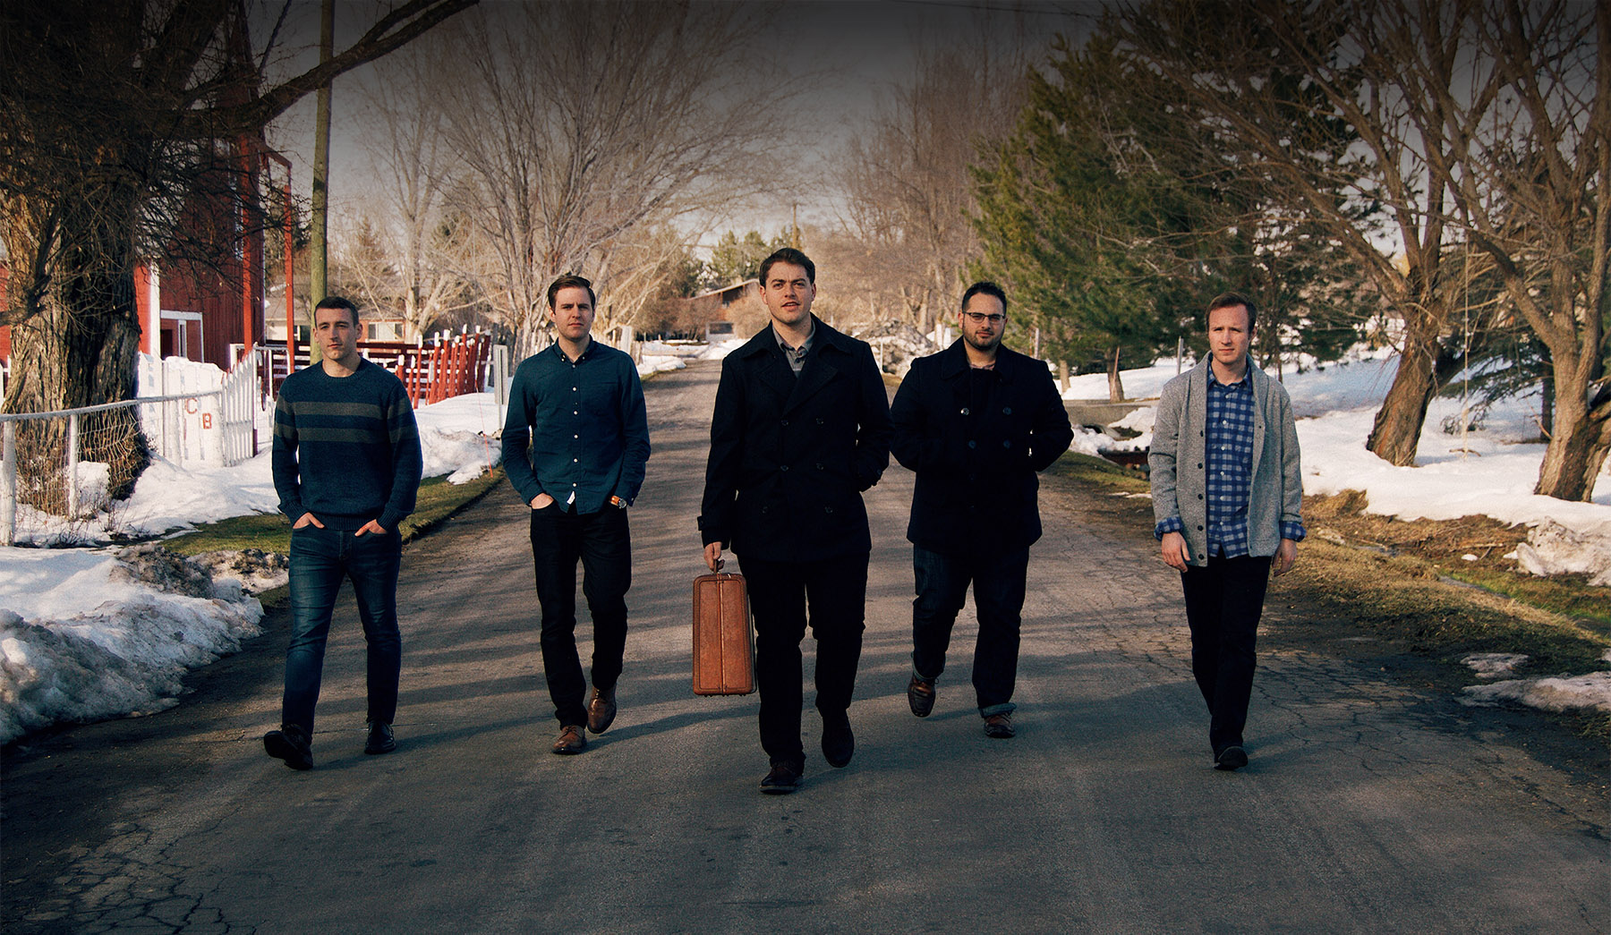
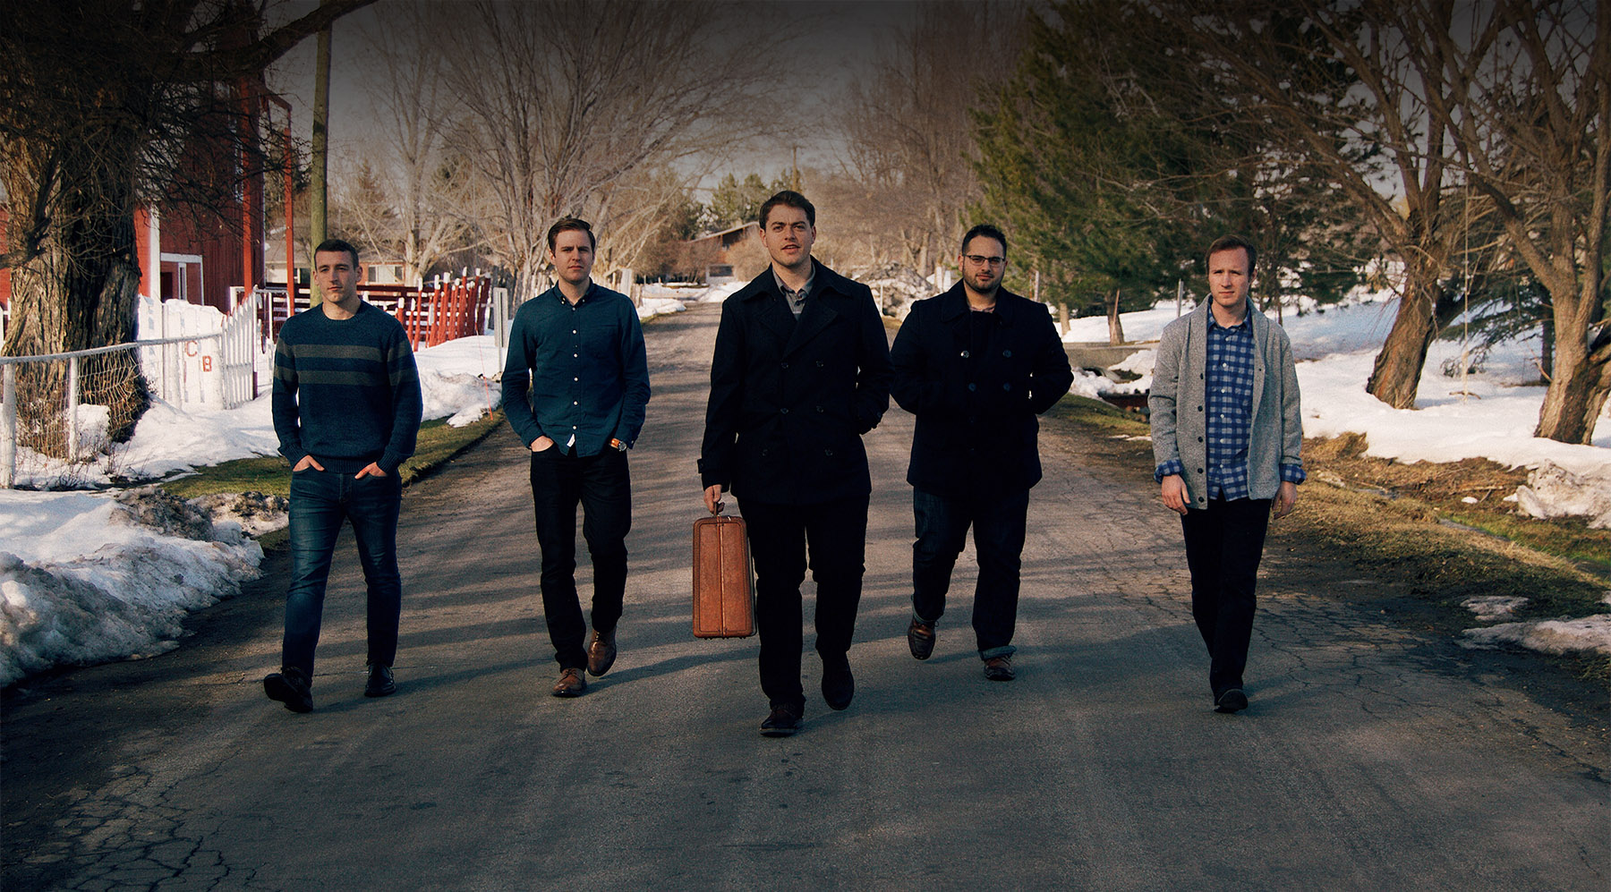
new header

diff --git a/css/agency.min.css b/css/agency.min.css
@@ -2,4 +2,4 @@
  * Start Bootstrap - Agency v3.3.7+1 (http://startbootstrap.com/template-overviews/agency)
  * Copyright 2013-2017 Start Bootstrap
  * Licensed under MIT (https://github.com/BlackrockDigital/startbootstrap/blob/gh-pages/LICENSE)
- */body{overflow-x:hidden;font-family:"Roboto Slab","Helvetica Neue",Helvetica,Arial,sans-serif;font-size:14px}.text-muted{color:#777}.text-primary{color:#be373d}p{font-size:1.15em;margin-bottom:1.5em;line-height:1.75}p.large{font-size:1.25em}a,a.active,a:active,a:focus,a:hover{outline:0}a{color:#be373d}a.active,a:active,a:focus,a:hover{color:#962c30}h1,h2,h3,h4,h5,h6{font-family:Montserrat,"Helvetica Neue",Helvetica,Arial,sans-serif;text-transform:uppercase;font-weight:700}.img-centered{margin:0 auto}.bg-light-gray{background-color:#eee}.bg-darkest-gray{background-color:#222}.btn-primary{color:#fff;background-color:#be373d;border-color:#be373d;font-family:Montserrat,"Helvetica Neue",Helvetica,Arial,sans-serif;text-transform:uppercase;font-weight:700}.btn-primary.active,.btn-primary:active,.btn-primary:focus,.btn-primary:hover,.open .dropdown-toggle.btn-primary{color:#fff;background-color:#962c30;border-color:#8f292e}.btn-primary.active,.btn-primary:active,.open .dropdown-toggle.btn-primary{background-image:none}.btn-primary.disabled,.btn-primary.disabled.active,.btn-primary.disabled:active,.btn-primary.disabled:focus,.btn-primary.disabled:hover,.btn-primary[disabled],.btn-primary[disabled].active,.btn-primary[disabled]:active,.btn-primary[disabled]:focus,.btn-primary[disabled]:hover,fieldset[disabled] .btn-primary,fieldset[disabled] .btn-primary.active,fieldset[disabled] .btn-primary:active,fieldset[disabled] .btn-primary:focus,fieldset[disabled] .btn-primary:hover{background-color:#be373d;border-color:#be373d}.btn-primary .badge{color:#be373d;background-color:#fff}.btn-xl{color:#fff;background-color:#be373d;border-color:#be373d;font-family:Montserrat,"Helvetica Neue",Helvetica,Arial,sans-serif;text-transform:uppercase;font-weight:700;border-radius:3px;font-size:18px;padding:20px 40px}.btn-xl.active,.btn-xl:active,.btn-xl:focus,.btn-xl:hover,.open .dropdown-toggle.btn-xl{color:#fff;background-color:#962c30;border-color:#8f292e}.btn-xl.active,.btn-xl:active,.open .dropdown-toggle.btn-xl{background-image:none}.btn-xl.disabled,.btn-xl.disabled.active,.btn-xl.disabled:active,.btn-xl.disabled:focus,.btn-xl.disabled:hover,.btn-xl[disabled],.btn-xl[disabled].active,.btn-xl[disabled]:active,.btn-xl[disabled]:focus,.btn-xl[disabled]:hover,fieldset[disabled] .btn-xl,fieldset[disabled] .btn-xl.active,fieldset[disabled] .btn-xl:active,fieldset[disabled] .btn-xl:focus,fieldset[disabled] .btn-xl:hover{background-color:#be373d;border-color:#be373d}.btn-xl .badge{color:#be373d;background-color:#fff}.navbar-custom{background-color:#222;border-color:transparent}.navbar-custom .navbar-brand{margin:0;padding:0;display:block}.navbar-custom .navbar-brand img{width:3em;margin-top:-.3em}.navbar-custom .navbar-collapse{border-color:rgba(255,255,255,.02)}.navbar-custom .navbar-toggle{background-color:#be373d;border-color:#be373d;font-family:Montserrat,"Helvetica Neue",Helvetica,Arial,sans-serif;text-transform:uppercase;color:#fff;font-size:12px}.navbar-custom .navbar-toggle:focus,.navbar-custom .navbar-toggle:hover{background-color:#be373d}.navbar-custom .nav li a{font-family:Montserrat,"Helvetica Neue",Helvetica,Arial,sans-serif;text-transform:uppercase;font-weight:400;font-size:.9em;letter-spacing:1px;color:#fff}.navbar-custom .nav li a:focus,.navbar-custom .nav li a:hover{color:#be373d;outline:0}.navbar-custom .navbar-nav>.active>a{border-radius:0;color:#fff;background-color:#be373d}.navbar-custom .navbar-nav>.active>a:focus,.navbar-custom .navbar-nav>.active>a:hover{color:#fff;background-color:#962c30}@media (min-width:768px){.navbar-custom{background-color:transparent;padding:25px 0;-webkit-transition:padding .3s;-moz-transition:padding .3s;transition:padding .3s;border:none}.navbar-custom .navbar-brand{font-size:2em;-webkit-transition:all .3s;-moz-transition:all .3s;transition:all .3s}.navbar-custom .navbar-nav>.active>a{border-radius:3px}}@media (min-width:768px){.navbar-custom.affix{background-color:#222;padding:10px 0}.navbar-custom.affix .navbar-brand{font-size:1.5em}}header{background-image:url(../img/header-bg.jpg);background-repeat:no-repeat;background-attachment:scroll;background-position:center center;-webkit-background-size:cover;-moz-background-size:cover;background-size:cover;-o-background-size:cover;text-align:center;color:#fff}header .header-logo-overlay img{width:70%;margin:3em 0 5em}@media (min-width:768px){header .intro-text{padding-top:300px;padding-bottom:200px}header .intro-text .intro-lead-in{font-family:"Droid Serif","Helvetica Neue",Helvetica,Arial,sans-serif;font-style:italic;font-size:40px;line-height:40px;margin-bottom:25px}header .intro-text .intro-heading{font-family:Montserrat,"Helvetica Neue",Helvetica,Arial,sans-serif;text-transform:uppercase;font-weight:700;font-size:75px;line-height:75px;margin-bottom:50px}}section{padding:100px 0}section h2.section-heading{font-size:40px;margin-top:0;margin-bottom:15px}section h3.section-subheading{font-size:1.15em;line-height:1.75;font-family:"Droid Serif","Helvetica Neue",Helvetica,Arial,sans-serif;text-transform:none;font-style:italic;font-weight:400;margin-bottom:4.5em}@media (min-width:768px){section{padding:150px 0}}.embedded-iframe{width:100%}.service-heading{margin:15px 0;text-transform:none}#portfolio .portfolio-item{margin:0 0 15px;right:0}#portfolio .portfolio-item .portfolio-link{display:block;position:relative;max-width:400px;margin:0 auto}#portfolio .portfolio-item .portfolio-link .portfolio-hover{background:rgba(190,55,61,.9);position:absolute;width:100%;height:100%;opacity:0;transition:all ease .5s;-webkit-transition:all ease .5s;-moz-transition:all ease .5s}#portfolio .portfolio-item .portfolio-link .portfolio-hover:hover{opacity:1}#portfolio .portfolio-item .portfolio-link .portfolio-hover .portfolio-hover-content{position:absolute;width:100%;height:20px;font-size:20px;text-align:center;top:50%;margin-top:-12px;color:#fff}#portfolio .portfolio-item .portfolio-link .portfolio-hover .portfolio-hover-content i{margin-top:-12px}#portfolio .portfolio-item .portfolio-link .portfolio-hover .portfolio-hover-content h3,#portfolio .portfolio-item .portfolio-link .portfolio-hover .portfolio-hover-content h4{margin:0}#portfolio .portfolio-item .portfolio-caption{max-width:400px;margin:0 auto;background-color:#fff;text-align:center;padding:25px}#portfolio .portfolio-item .portfolio-caption h4{text-transform:none;margin:0}#portfolio .portfolio-item .portfolio-caption p{font-family:"Droid Serif","Helvetica Neue",Helvetica,Arial,sans-serif;font-style:italic;font-size:16px;margin:0}#portfolio *{z-index:2}@media (min-width:767px){#portfolio .portfolio-item{margin:0 0 30px}}.timeline{list-style:none;padding:0;position:relative}.timeline:before{top:0;bottom:0;position:absolute;content:"";width:2px;background-color:#f1f1f1;left:40px;margin-left:-1.5px}.timeline>li{margin-bottom:50px;position:relative;min-height:50px}.timeline>li:after,.timeline>li:before{content:" ";display:table}.timeline>li:after{clear:both}.timeline>li .timeline-panel{width:100%;float:right;padding:0 20px 0 100px;position:relative;text-align:left}.timeline>li .timeline-panel:before{border-left-width:0;border-right-width:15px;left:-15px;right:auto}.timeline>li .timeline-panel:after{border-left-width:0;border-right-width:14px;left:-14px;right:auto}.timeline>li .timeline-image{left:0;margin-left:0;width:80px;height:80px;position:absolute;z-index:100;background-color:#be373d;color:#fff;border-radius:100%;border:7px solid #f1f1f1;text-align:center}.timeline>li .timeline-image h4{font-size:10px;margin-top:12px;line-height:14px}.timeline>li.timeline-inverted>.timeline-panel{float:right;text-align:left;padding:0 20px 0 100px}.timeline>li.timeline-inverted>.timeline-panel:before{border-left-width:0;border-right-width:15px;left:-15px;right:auto}.timeline>li.timeline-inverted>.timeline-panel:after{border-left-width:0;border-right-width:14px;left:-14px;right:auto}.timeline>li:last-child{margin-bottom:0}.timeline .timeline-heading h4{margin-top:0;color:inherit}.timeline .timeline-heading h4.subheading{text-transform:none}.timeline .timeline-body>p,.timeline .timeline-body>ul{margin-bottom:0}@media (min-width:768px){.timeline:before{left:50%}.timeline>li{margin-bottom:100px;min-height:100px}.timeline>li .timeline-panel{width:41%;float:left;padding:0 20px 20px 30px;text-align:right}.timeline>li .timeline-image{width:100px;height:100px;left:50%;margin-left:-50px}.timeline>li .timeline-image h4{font-size:13px;margin-top:16px;line-height:18px}.timeline>li.timeline-inverted>.timeline-panel{float:right;text-align:left;padding:0 30px 20px 20px}}@media (min-width:992px){.timeline>li{min-height:150px}.timeline>li .timeline-panel{padding:0 20px 20px}.timeline>li .timeline-image{width:150px;height:150px;margin-left:-75px}.timeline>li .timeline-image h4{font-size:18px;margin-top:30px;line-height:26px}.timeline>li.timeline-inverted>.timeline-panel{padding:0 20px 20px}}@media (min-width:1200px){.timeline>li{min-height:170px}.timeline>li .timeline-panel{padding:0 20px 20px 100px}.timeline>li .timeline-image{width:170px;height:170px;margin-left:-85px}.timeline>li .timeline-image h4{margin-top:40px}.timeline>li.timeline-inverted>.timeline-panel{padding:0 100px 20px 20px}}.team-member{text-align:center;margin-bottom:50px}.team-member img{margin:0 auto;border:7px solid #fff}.team-member h4{margin-top:25px;margin-bottom:0;text-transform:none}.team-member p{margin-top:0}aside.clients img{margin:50px auto}section#contact{background-color:#222;background-image:url(../img/map-image.png);background-position:center;background-repeat:no-repeat;color:#fff}section#contact .section-heading{color:#fff}section#contact ul.contact-list{list-style-type:none;margin:0 0 0 2em}section#contact ul.contact-list li{margin-bottom:1em}section#contact ul.contact-list li a{font-size:1.5em;color:#fff}section#contact ul.contact-list li a i{display:inline-block;height:60px;width:60px;background:#be373d;font-size:1.25em;text-align:center;line-height:60px;margin-right:15px;border-radius:30px}footer{padding:25px 0}footer .social{text-align:right}footer .social-buttons a{text-align:center}footer span.copyright{line-height:40px;font-family:Montserrat,"Helvetica Neue",Helvetica,Arial,sans-serif;text-transform:uppercase;text-transform:none}footer ul.quicklinks{margin-bottom:0;line-height:40px;font-family:Montserrat,"Helvetica Neue",Helvetica,Arial,sans-serif;text-transform:uppercase;text-transform:none}ul.social-buttons{margin-bottom:0}ul.social-buttons li a{display:block;background-color:#222;height:40px;width:40px;border-radius:100%;font-size:20px;line-height:40px;color:#fff;outline:0;-webkit-transition:all .3s;-moz-transition:all .3s;transition:all .3s}ul.social-buttons li a:active,ul.social-buttons li a:focus,ul.social-buttons li a:hover{background-color:#be373d}.btn.active,.btn:active,.btn:active:focus,.btn:focus{outline:0}.portfolio-modal .modal-dialog{margin:0;height:100%;width:auto}.portfolio-modal .modal-content{border-radius:0;background-clip:border-box;-webkit-box-shadow:none;box-shadow:none;border:none;min-height:100%;padding:100px 0;text-align:center}.portfolio-modal .modal-content h2{margin-bottom:15px;font-size:3em}.portfolio-modal .modal-content p{margin-bottom:30px}.portfolio-modal .modal-content p.item-intro{margin:20px 0 30px;font-family:"Droid Serif","Helvetica Neue",Helvetica,Arial,sans-serif;font-style:italic;font-size:16px}.portfolio-modal .modal-content ul.list-inline{margin-bottom:30px;margin-top:0}.portfolio-modal .modal-content img{margin-bottom:30px}.portfolio-modal .close-modal{position:absolute;width:75px;height:75px;background-color:transparent;top:25px;right:25px;cursor:pointer}.portfolio-modal .close-modal:hover{opacity:.3}.portfolio-modal .close-modal .lr{height:75px;width:1px;margin-left:35px;background-color:#222;transform:rotate(45deg);-ms-transform:rotate(45deg);-webkit-transform:rotate(45deg);z-index:1051}.portfolio-modal .close-modal .lr .rl{height:75px;width:1px;background-color:#222;transform:rotate(90deg);-ms-transform:rotate(90deg);-webkit-transform:rotate(90deg);z-index:1052}.portfolio-modal .modal-backdrop{opacity:0;display:none}::-moz-selection{text-shadow:none;background:#be373d}::selection{text-shadow:none;background:#be373d}img::selection{background:0 0}img::-moz-selection{background:0 0}body{webkit-tap-highlight-color:#be373d}
+ */body{overflow-x:hidden;font-family:"Roboto Slab","Helvetica Neue",Helvetica,Arial,sans-serif;font-size:14px}.text-muted{color:#777}.text-primary{color:#be373d}p{font-size:1.15em;margin-bottom:1.5em;line-height:1.75}p.large{font-size:1.25em}a,a.active,a:active,a:focus,a:hover{outline:0}a{color:#be373d}a.active,a:active,a:focus,a:hover{color:#962c30}h1,h2,h3,h4,h5,h6{font-family:Montserrat,"Helvetica Neue",Helvetica,Arial,sans-serif;text-transform:uppercase;font-weight:700}.img-centered{margin:0 auto}.bg-light-gray{background-color:#eee}.bg-darkest-gray{background-color:#222}.btn-primary{color:#fff;background-color:#be373d;border-color:#be373d;font-family:Montserrat,"Helvetica Neue",Helvetica,Arial,sans-serif;text-transform:uppercase;font-weight:700}.btn-primary.active,.btn-primary:active,.btn-primary:focus,.btn-primary:hover,.open .dropdown-toggle.btn-primary{color:#fff;background-color:#962c30;border-color:#8f292e}.btn-primary.active,.btn-primary:active,.open .dropdown-toggle.btn-primary{background-image:none}.btn-primary.disabled,.btn-primary.disabled.active,.btn-primary.disabled:active,.btn-primary.disabled:focus,.btn-primary.disabled:hover,.btn-primary[disabled],.btn-primary[disabled].active,.btn-primary[disabled]:active,.btn-primary[disabled]:focus,.btn-primary[disabled]:hover,fieldset[disabled] .btn-primary,fieldset[disabled] .btn-primary.active,fieldset[disabled] .btn-primary:active,fieldset[disabled] .btn-primary:focus,fieldset[disabled] .btn-primary:hover{background-color:#be373d;border-color:#be373d}.btn-primary .badge{color:#be373d;background-color:#fff}.btn-xl{color:#fff;background-color:#be373d;border-color:#be373d;font-family:Montserrat,"Helvetica Neue",Helvetica,Arial,sans-serif;text-transform:uppercase;font-weight:700;border-radius:3px;font-size:18px;padding:20px 40px}.btn-xl.active,.btn-xl:active,.btn-xl:focus,.btn-xl:hover,.open .dropdown-toggle.btn-xl{color:#fff;background-color:#962c30;border-color:#8f292e}.btn-xl.active,.btn-xl:active,.open .dropdown-toggle.btn-xl{background-image:none}.btn-xl.disabled,.btn-xl.disabled.active,.btn-xl.disabled:active,.btn-xl.disabled:focus,.btn-xl.disabled:hover,.btn-xl[disabled],.btn-xl[disabled].active,.btn-xl[disabled]:active,.btn-xl[disabled]:focus,.btn-xl[disabled]:hover,fieldset[disabled] .btn-xl,fieldset[disabled] .btn-xl.active,fieldset[disabled] .btn-xl:active,fieldset[disabled] .btn-xl:focus,fieldset[disabled] .btn-xl:hover{background-color:#be373d;border-color:#be373d}.btn-xl .badge{color:#be373d;background-color:#fff}.navbar-custom{background-color:#222;border-color:transparent}.navbar-custom .navbar-brand{margin:0;padding:0;display:block}.navbar-custom .navbar-brand img{width:3em;margin-top:-.3em}.navbar-custom .navbar-collapse{border-color:rgba(255,255,255,.02)}.navbar-custom .navbar-toggle{background-color:#be373d;border-color:#be373d;font-family:Montserrat,"Helvetica Neue",Helvetica,Arial,sans-serif;text-transform:uppercase;color:#fff;font-size:12px}.navbar-custom .navbar-toggle:focus,.navbar-custom .navbar-toggle:hover{background-color:#be373d}.navbar-custom .nav li a{font-family:Montserrat,"Helvetica Neue",Helvetica,Arial,sans-serif;text-transform:uppercase;font-weight:400;font-size:.9em;letter-spacing:1px;color:#fff}.navbar-custom .nav li a:focus,.navbar-custom .nav li a:hover{color:#be373d;outline:0}.navbar-custom .navbar-nav>.active>a{border-radius:0;color:#fff;background-color:#be373d}.navbar-custom .navbar-nav>.active>a:focus,.navbar-custom .navbar-nav>.active>a:hover{color:#fff;background-color:#962c30}@media (min-width:768px){.navbar-custom{background-color:transparent;padding:25px 0;-webkit-transition:padding .3s;-moz-transition:padding .3s;transition:padding .3s;border:none}.navbar-custom .navbar-brand{font-size:2em;-webkit-transition:all .3s;-moz-transition:all .3s;transition:all .3s}.navbar-custom .navbar-nav>.active>a{border-radius:3px}}@media (min-width:768px){.navbar-custom.affix{background-color:#222;padding:10px 0}.navbar-custom.affix .navbar-brand{font-size:1.5em}}header{background-image:url(../img/header-bg.jpg);background-repeat:no-repeat;background-attachment:scroll;background-position:center center;-webkit-background-size:cover;-moz-background-size:cover;background-size:cover;-o-background-size:cover;text-align:center;color:#fff}header .header-logo-overlay img{width:70%;margin:0 0 5em}@media (min-width:768px){header .intro-text{padding-top:300px;padding-bottom:200px}header .intro-text .intro-lead-in{font-family:"Droid Serif","Helvetica Neue",Helvetica,Arial,sans-serif;font-style:italic;font-size:40px;line-height:40px;margin-bottom:25px}header .intro-text .intro-heading{font-family:Montserrat,"Helvetica Neue",Helvetica,Arial,sans-serif;text-transform:uppercase;font-weight:700;font-size:75px;line-height:75px;margin-bottom:50px}}section{padding:100px 0}section h2.section-heading{font-size:40px;margin-top:0;margin-bottom:15px}section h3.section-subheading{font-size:1.15em;line-height:1.75;font-family:"Droid Serif","Helvetica Neue",Helvetica,Arial,sans-serif;text-transform:none;font-style:italic;font-weight:400;margin-bottom:4.5em}@media (min-width:768px){section{padding:150px 0}}.embedded-iframe{width:100%}.service-heading{margin:15px 0;text-transform:none}#portfolio .portfolio-item{margin:0 0 15px;right:0}#portfolio .portfolio-item .portfolio-link{display:block;position:relative;max-width:400px;margin:0 auto}#portfolio .portfolio-item .portfolio-link .portfolio-hover{background:rgba(190,55,61,.9);position:absolute;width:100%;height:100%;opacity:0;transition:all ease .5s;-webkit-transition:all ease .5s;-moz-transition:all ease .5s}#portfolio .portfolio-item .portfolio-link .portfolio-hover:hover{opacity:1}#portfolio .portfolio-item .portfolio-link .portfolio-hover .portfolio-hover-content{position:absolute;width:100%;height:20px;font-size:20px;text-align:center;top:50%;margin-top:-12px;color:#fff}#portfolio .portfolio-item .portfolio-link .portfolio-hover .portfolio-hover-content i{margin-top:-12px}#portfolio .portfolio-item .portfolio-link .portfolio-hover .portfolio-hover-content h3,#portfolio .portfolio-item .portfolio-link .portfolio-hover .portfolio-hover-content h4{margin:0}#portfolio .portfolio-item .portfolio-caption{max-width:400px;margin:0 auto;background-color:#fff;text-align:center;padding:25px}#portfolio .portfolio-item .portfolio-caption h4{text-transform:none;margin:0}#portfolio .portfolio-item .portfolio-caption p{font-family:"Droid Serif","Helvetica Neue",Helvetica,Arial,sans-serif;font-style:italic;font-size:16px;margin:0}#portfolio *{z-index:2}@media (min-width:767px){#portfolio .portfolio-item{margin:0 0 30px}}.timeline{list-style:none;padding:0;position:relative}.timeline:before{top:0;bottom:0;position:absolute;content:"";width:2px;background-color:#f1f1f1;left:40px;margin-left:-1.5px}.timeline>li{margin-bottom:50px;position:relative;min-height:50px}.timeline>li:after,.timeline>li:before{content:" ";display:table}.timeline>li:after{clear:both}.timeline>li .timeline-panel{width:100%;float:right;padding:0 20px 0 100px;position:relative;text-align:left}.timeline>li .timeline-panel:before{border-left-width:0;border-right-width:15px;left:-15px;right:auto}.timeline>li .timeline-panel:after{border-left-width:0;border-right-width:14px;left:-14px;right:auto}.timeline>li .timeline-image{left:0;margin-left:0;width:80px;height:80px;position:absolute;z-index:100;background-color:#be373d;color:#fff;border-radius:100%;border:7px solid #f1f1f1;text-align:center}.timeline>li .timeline-image h4{font-size:10px;margin-top:12px;line-height:14px}.timeline>li.timeline-inverted>.timeline-panel{float:right;text-align:left;padding:0 20px 0 100px}.timeline>li.timeline-inverted>.timeline-panel:before{border-left-width:0;border-right-width:15px;left:-15px;right:auto}.timeline>li.timeline-inverted>.timeline-panel:after{border-left-width:0;border-right-width:14px;left:-14px;right:auto}.timeline>li:last-child{margin-bottom:0}.timeline .timeline-heading h4{margin-top:0;color:inherit}.timeline .timeline-heading h4.subheading{text-transform:none}.timeline .timeline-body>p,.timeline .timeline-body>ul{margin-bottom:0}@media (min-width:768px){.timeline:before{left:50%}.timeline>li{margin-bottom:100px;min-height:100px}.timeline>li .timeline-panel{width:41%;float:left;padding:0 20px 20px 30px;text-align:right}.timeline>li .timeline-image{width:100px;height:100px;left:50%;margin-left:-50px}.timeline>li .timeline-image h4{font-size:13px;margin-top:16px;line-height:18px}.timeline>li.timeline-inverted>.timeline-panel{float:right;text-align:left;padding:0 30px 20px 20px}}@media (min-width:992px){.timeline>li{min-height:150px}.timeline>li .timeline-panel{padding:0 20px 20px}.timeline>li .timeline-image{width:150px;height:150px;margin-left:-75px}.timeline>li .timeline-image h4{font-size:18px;margin-top:30px;line-height:26px}.timeline>li.timeline-inverted>.timeline-panel{padding:0 20px 20px}}@media (min-width:1200px){.timeline>li{min-height:170px}.timeline>li .timeline-panel{padding:0 20px 20px 100px}.timeline>li .timeline-image{width:170px;height:170px;margin-left:-85px}.timeline>li .timeline-image h4{margin-top:40px}.timeline>li.timeline-inverted>.timeline-panel{padding:0 100px 20px 20px}}.team-member{text-align:center;margin-bottom:50px}.team-member img{margin:0 auto;border:7px solid #fff}.team-member h4{margin-top:25px;margin-bottom:0;text-transform:none}.team-member p{margin-top:0}aside.clients img{margin:50px auto}section#contact{background-color:#222;background-image:url(../img/map-image.png);background-position:center;background-repeat:no-repeat;color:#fff}section#contact .section-heading{color:#fff}section#contact ul.contact-list{list-style-type:none;margin:0 0 0 2em}section#contact ul.contact-list li{margin-bottom:1em}section#contact ul.contact-list li a{font-size:1.5em;color:#fff}section#contact ul.contact-list li a i{display:inline-block;height:60px;width:60px;background:#be373d;font-size:1.25em;text-align:center;line-height:60px;margin-right:15px;border-radius:30px}footer{padding:25px 0}footer .social{text-align:right}footer .social-buttons a{text-align:center}footer span.copyright{line-height:40px;font-family:Montserrat,"Helvetica Neue",Helvetica,Arial,sans-serif;text-transform:uppercase;text-transform:none}footer ul.quicklinks{margin-bottom:0;line-height:40px;font-family:Montserrat,"Helvetica Neue",Helvetica,Arial,sans-serif;text-transform:uppercase;text-transform:none}ul.social-buttons{margin-bottom:0}ul.social-buttons li a{display:block;background-color:#222;height:40px;width:40px;border-radius:100%;font-size:20px;line-height:40px;color:#fff;outline:0;-webkit-transition:all .3s;-moz-transition:all .3s;transition:all .3s}ul.social-buttons li a:active,ul.social-buttons li a:focus,ul.social-buttons li a:hover{background-color:#be373d}.btn.active,.btn:active,.btn:active:focus,.btn:focus{outline:0}.portfolio-modal .modal-dialog{margin:0;height:100%;width:auto}.portfolio-modal .modal-content{border-radius:0;background-clip:border-box;-webkit-box-shadow:none;box-shadow:none;border:none;min-height:100%;padding:100px 0;text-align:center}.portfolio-modal .modal-content h2{margin-bottom:15px;font-size:3em}.portfolio-modal .modal-content p{margin-bottom:30px}.portfolio-modal .modal-content p.item-intro{margin:20px 0 30px;font-family:"Droid Serif","Helvetica Neue",Helvetica,Arial,sans-serif;font-style:italic;font-size:16px}.portfolio-modal .modal-content ul.list-inline{margin-bottom:30px;margin-top:0}.portfolio-modal .modal-content img{margin-bottom:30px}.portfolio-modal .close-modal{position:absolute;width:75px;height:75px;background-color:transparent;top:25px;right:25px;cursor:pointer}.portfolio-modal .close-modal:hover{opacity:.3}.portfolio-modal .close-modal .lr{height:75px;width:1px;margin-left:35px;background-color:#222;transform:rotate(45deg);-ms-transform:rotate(45deg);-webkit-transform:rotate(45deg);z-index:1051}.portfolio-modal .close-modal .lr .rl{height:75px;width:1px;background-color:#222;transform:rotate(90deg);-ms-transform:rotate(90deg);-webkit-transform:rotate(90deg);z-index:1052}.portfolio-modal .modal-backdrop{opacity:0;display:none}::-moz-selection{text-shadow:none;background:#be373d}::selection{text-shadow:none;background:#be373d}img::selection{background:0 0}img::-moz-selection{background:0 0}body{webkit-tap-highlight-color:#be373d}

diff --git a/css/agency.css b/css/agency.css
@@ -241,7 +241,7 @@ header {
 }
 header .header-logo-overlay img {
   width: 70%;
-  margin: 3em 0 5em;
+  margin: 0em 0 5em;
 }
 @media (min-width: 768px) {
   header .intro-text {

diff --git a/less/agency.less b/less/agency.less
@@ -181,7 +181,7 @@ header {
     .header-logo-overlay {
         img {
             width: 70%;
-            margin: 3em 0 5em;
+            margin: 0em 0 5em;
         }
     }
 }
